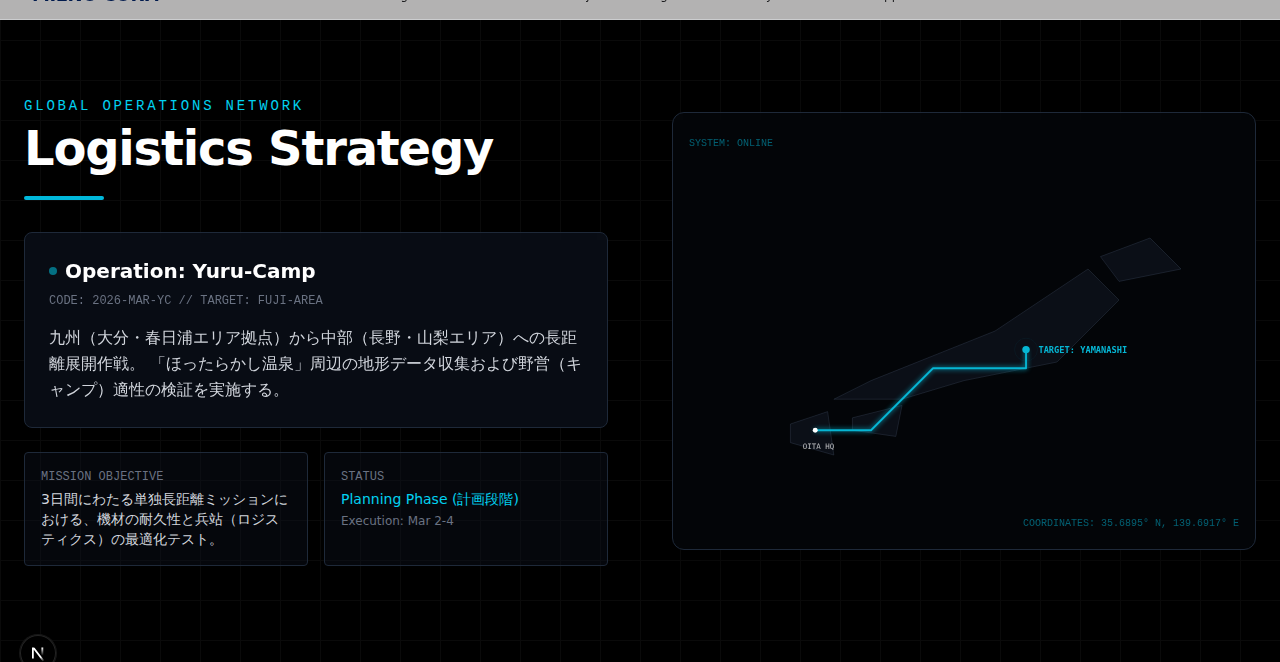
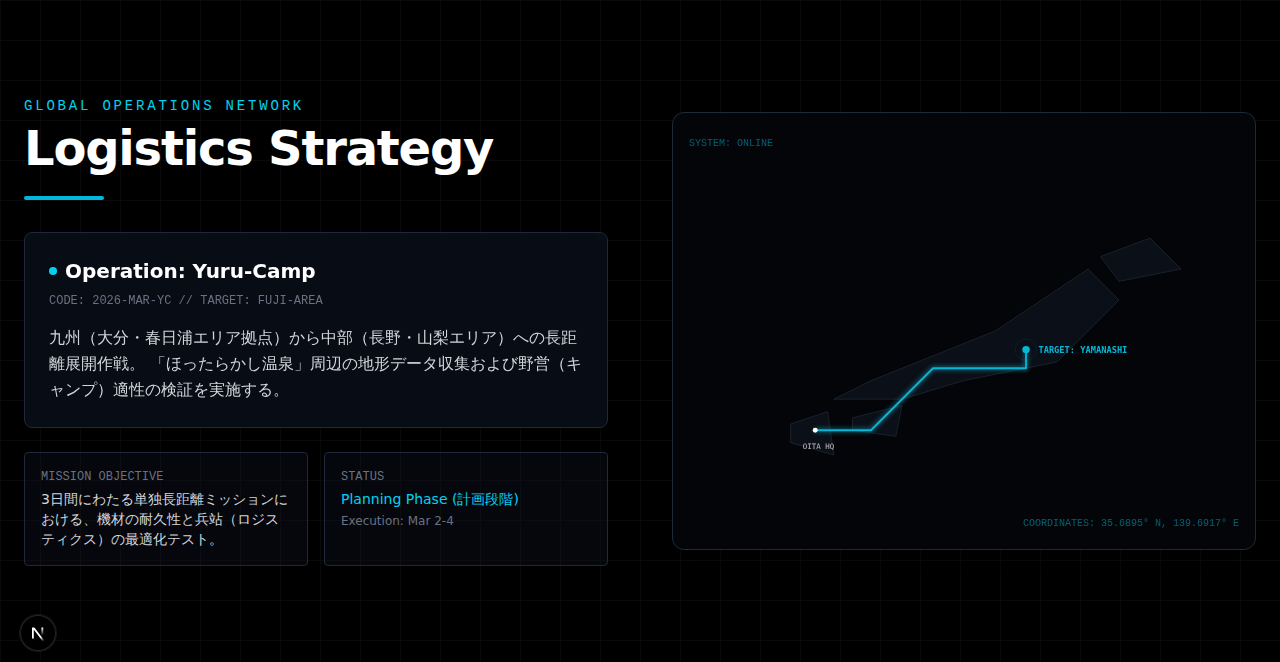
Feat: Logisticsセクション実装およびMPAアーキテクチャ移行
- `components/Logistics.tsx` の新規実装 (Framer Motion SVGアニメーション含む)
- SPAからMPAへのアーキテクチャ変更
- `app/layout.tsx` への共通ヘッダー・フッター移動
- 各セクション (`/units`, `/services`, `/history`, `/ir`, `/logistics`) の個別ページ化
- `app/page.tsx` のHeroのみ表示への変更
- Playwrightによる自動UI検証スクリプトの追加と更新

Changed region(s): [[0.0, 0.0, 1.0, 0.0302], [0.8438, 0.5136, 0.875, 0.5438]]

diff --git a/components/Hero.tsx b/components/Hero.tsx
@@ -3,6 +3,7 @@
 import { motion } from "framer-motion";
 import { ChevronDown } from "lucide-react";
 import Image from "next/image";
+import Link from "next/link";
 
 export default function Hero() {
   const containerVariants = {
@@ -66,22 +67,24 @@ export default function Hero() {
 
         {/* CTA (画面下部) */}
         <motion.div
-          className="absolute bottom-10 flex flex-col items-center gap-2 cursor-pointer pb-8"
+          className="absolute bottom-10 z-20"
           variants={itemVariants}
         >
-          <span className="text-sm font-medium text-gray-300 tracking-wide">
-            さらに詳しく
-          </span>
-          <motion.div
-            animate={{ y: [0, 10, 0] }}
-            transition={{
-              duration: 2,
-              repeat: Infinity,
-              ease: "easeInOut",
-            }}
-          >
-            <ChevronDown className="h-8 w-8 text-white opacity-80" />
-          </motion.div>
+          <Link href="/units" className="flex flex-col items-center gap-2 cursor-pointer pb-8">
+            <span className="text-sm font-medium text-gray-300 tracking-wide">
+              さらに詳しく
+            </span>
+            <motion.div
+              animate={{ y: [0, 10, 0] }}
+              transition={{
+                duration: 2,
+                repeat: Infinity,
+                ease: "easeInOut",
+              }}
+            >
+              <ChevronDown className="h-8 w-8 text-white opacity-80" />
+            </motion.div>
+          </Link>
         </motion.div>
       </motion.div>
     </section>

diff --git a/app/page.tsx b/app/page.tsx
@@ -1,48 +1,9 @@
-import Header from "@/components/Header";
-import Footer from "@/components/Footer";
 import Hero from "@/components/Hero";
-import MienoEcosystem from "@/components/MienoEcosystem";
-import History from "@/components/History";
-import Logistics from "@/components/Logistics";
-import PerformanceReport from "@/components/PerformanceReport";
-import StrategicUnits from "@/components/StrategicUnits";
 
 export default function Home() {
   return (
-    <div className="flex min-h-screen flex-col">
-      <Header />
-      <main className="flex-grow">
-        {/* Heroセクション */}
-        <section id="hero">
-          <Hero />
-        </section>
-
-        {/* Strategic Units セクション */}
-        <section id="units">
-          <StrategicUnits />
-        </section>
-
-        {/* Ecosystemセクション */}
-        <section id="ecosystem">
-          <MienoEcosystem />
-        </section>
-
-        {/* Historyセクション */}
-        <section id="history">
-          <History />
-        </section>
-
-        {/* Logisticsセクション */}
-        <section id="logistics">
-          <Logistics />
-        </section>
-
-        {/* IR Informationセクション */}
-        <section id="performance">
-          <PerformanceReport />
-        </section>
-      </main>
-      <Footer />
-    </div>
+    <section id="hero">
+      <Hero />
+    </section>
   );
 }

diff --git a/app/layout.tsx b/app/layout.tsx
@@ -1,6 +1,8 @@
 import type { Metadata } from "next";
 import { Inter, Noto_Sans_JP } from "next/font/google";
 import "./globals.css";
+import Header from "@/components/Header";
+import Footer from "@/components/Footer";
 
 const inter = Inter({
   subsets: ["latin"],
@@ -29,7 +31,11 @@ export default function RootLayout({
       <body
         className={`${inter.variable} ${notoSansJP.variable} antialiased font-sans text-mieno-text bg-mieno-gray`}
       >
-        {children}
+        <div className="flex min-h-screen flex-col">
+          <Header />
+          <main className="flex-grow">{children}</main>
+          <Footer />
+        </div>
       </body>
     </html>
   );

diff --git a/components/Header.tsx b/components/Header.tsx
@@ -4,13 +4,13 @@ import Link from "next/link";
 import { motion } from "framer-motion";
 
 const navItems = [
-  { name: "Strategic Units", href: "#units" },
-  { name: "Services", href: "#ecosystem" },
+  { name: "Strategic Units", href: "/units" },
+  { name: "Services", href: "/services" },
   { name: "Projects", href: "#" },
-  { name: "Logistics", href: "#" },
-  { name: "History", href: "#history" },
+  { name: "Logistics", href: "/logistics" },
+  { name: "History", href: "/history" },
   { name: "Store", href: "#" },
-  { name: "Support", href: "#performance" },
+  { name: "Support", href: "/ir" },
 ];
 
 export default function Header() {

diff --git a/components/Logistics.tsx b/components/Logistics.tsx
@@ -20,7 +20,7 @@ const Logistics = () => {
   const routePath = "M 160 460 L 250 460 L 350 360 L 500 360 L 500 330";
 
   return (
-    <section className="bg-black text-white py-24 overflow-hidden relative">
+    <section id="logistics" className="bg-black text-white py-24 overflow-hidden relative">
       {/* Background Grid Effect */}
       <div className="absolute inset-0 z-0 opacity-20 pointer-events-none"
            style={{ backgroundImage: 'linear-gradient(#333 1px, transparent 1px), linear-gradient(90deg, #333 1px, transparent 1px)', backgroundSize: '40px 40px' }}>

diff --git a/app/ir/page.tsx b/app/ir/page.tsx
@@ -1,0 +1,5 @@
+import PerformanceReport from "@/components/PerformanceReport";
+
+export default function IRPage() {
+  return <PerformanceReport />;
+}

diff --git a/app/services/page.tsx b/app/services/page.tsx
@@ -1,0 +1,5 @@
+import MienoEcosystem from "@/components/MienoEcosystem";
+
+export default function ServicesPage() {
+  return <MienoEcosystem />;
+}

diff --git a/app/units/page.tsx b/app/units/page.tsx
@@ -1,0 +1,5 @@
+import StrategicUnits from "@/components/StrategicUnits";
+
+export default function UnitsPage() {
+  return <StrategicUnits />;
+}

diff --git a/app/logistics/page.tsx b/app/logistics/page.tsx
@@ -1,0 +1,5 @@
+import Logistics from "@/components/Logistics";
+
+export default function LogisticsPage() {
+  return <Logistics />;
+}

diff --git a/app/history/page.tsx b/app/history/page.tsx
@@ -1,0 +1,5 @@
+import History from "@/components/History";
+
+export default function HistoryPage() {
+  return <History />;
+}

diff --git a/verification/verify_navigation_refactor.py b/verification/verify_navigation_refactor.py
@@ -1,0 +1,33 @@
+from playwright.sync_api import sync_playwright
+import time
+
+def run():
+    with sync_playwright() as p:
+        browser = p.chromium.launch(headless=True)
+        page = browser.new_page()
+
+        # Test Home Page
+        print("Visiting Home Page...")
+        page.goto("http://localhost:3000")
+        page.wait_for_selector("text=MIENO CORP.") # Header check
+        page.wait_for_selector("text=変革の風を、二輪で切り裂く。") # Hero check
+        page.screenshot(path="verification/verification_navigation_home.png")
+
+        # Check Navigation Links
+        print("Checking Navigation Links...")
+        header = page.locator("nav[aria-label='Global']")
+
+        units_link = header.get_by_role("link", name="Strategic Units")
+
+        # Test Navigation to Units
+        print("Navigating to Units...")
+        units_link.click()
+        page.wait_for_url("http://localhost:3000/units")
+        page.wait_for_selector("text=Power. Precision. Prestige.")
+        page.screenshot(path="verification/verification_navigation_units.png")
+
+        print("Navigation Test Passed!")
+        browser.close()
+
+if __name__ == "__main__":
+    run()

diff --git a/verification/verify_logistics.py b/verification/verify_logistics.py
@@ -7,7 +7,7 @@ def run():
         page = browser.new_page()
 
         # Navigate to the page
-        page.goto("http://localhost:3000")
+        page.goto("http://localhost:3000/logistics")
 
         # Wait for the page to load
         page.wait_for_load_state("networkidle")
